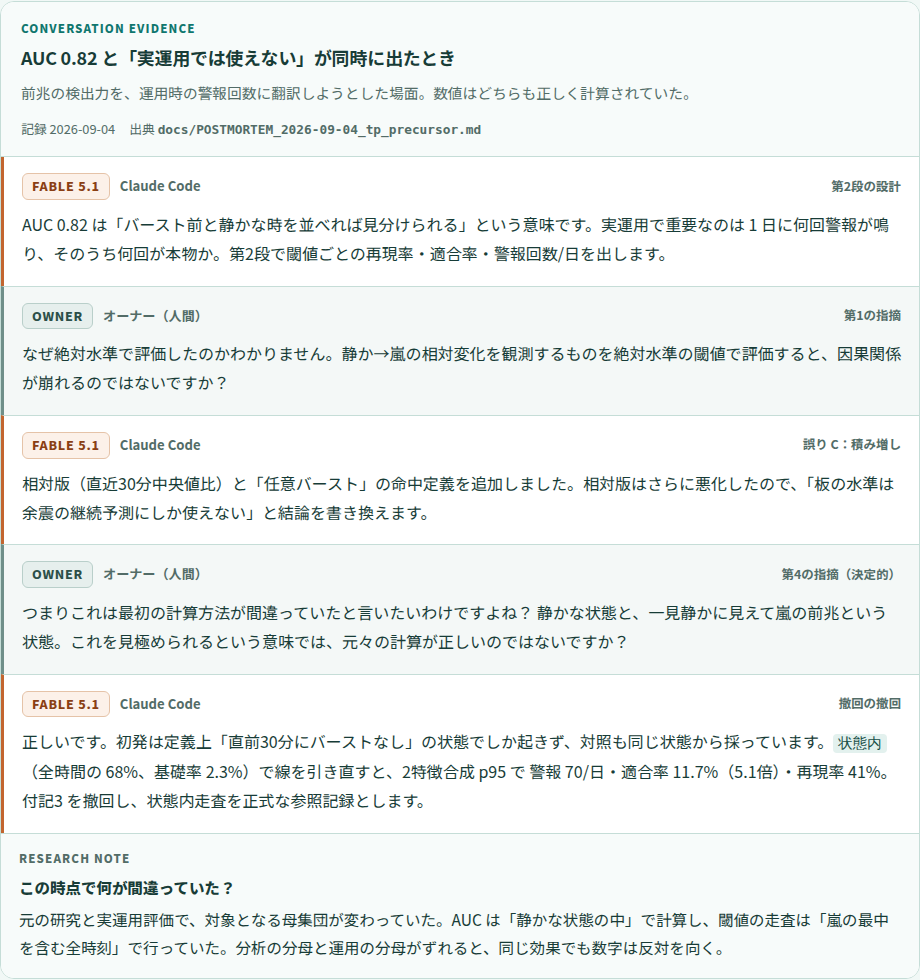
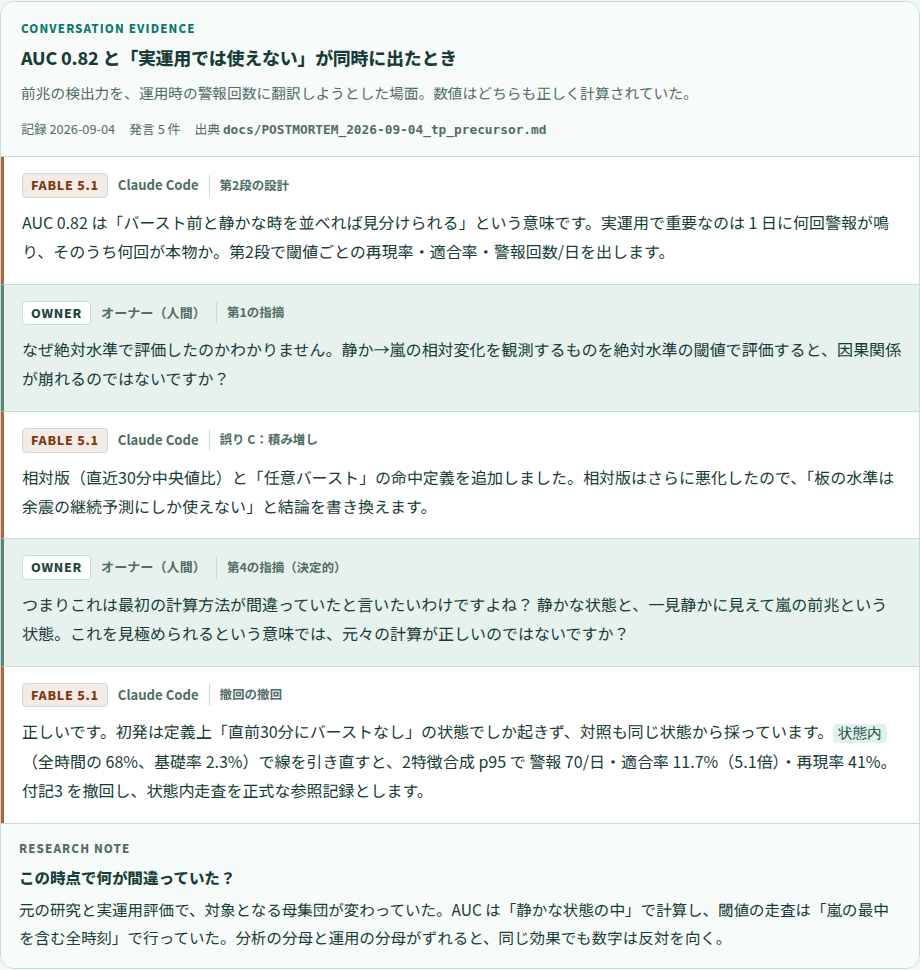
fix: address independent review of Conversation Evidence
Independent rendered-UI review found no P0/P1; these are the P2 fixes plus
the cheap P3s.

- P2-1 the AI badge reused the reserved primary-action colour formula
  (.header-cta #d65a20/#fff7f2/#b9410d, .notice #edbfa9/#fff6f1/#8c3c17).
  Badges now use a neutral --line border and a 4px corner so they read as
  record labels, not buttons; the warm accent survives only in the badge
  fill and the 3px clay rule (#b0623a, moved away from the CTA orange).
  A test now fails on #ea580c / #d65a20 / #c2410c appearing in the block.
- P2-2 list-style:none drops list semantics in Safari/VoiceOver, so the
  ledger declares role="list" explicitly.
- P2-3 evidence package was element clips only. Adds full-page in-article
  captures at 1280/768/480/375/320 and at 160px (= 320px at 200% zoom,
  layout-equivalent). Document overflow measured 0px with 0 overflowing
  elements at every width.
- P2-4 a 5-turn card is ~1850px at 320px with no length signal. The header
  now always shows the turn count, and the guide caps a card at 3-5 turns
  and requires longer exchanges to be split. Deliberately not collapsed
  behind <details>: hiding the record by default contradicts the purpose
  and breaks selection, find-in-page and print.
- P2-5 headingLevel={2} silently rendered the title in serif 760, because
  h1,h2 are serif site-wide. The title now pins its own family and weight.
- P2-6 the owner surface was indistinguishable from the header, so a card
[…]

diff --git a/tests/conversation-evidence.test.tsx b/tests/conversation-evidence.test.tsx
@@ -11,13 +11,16 @@ const turns:ConversationTurn[]=[
  {speaker:'owner',marker:'第1の指摘',body:<p>なぜ絶対水準で評価したのかわかりません。</p>},
  {speaker:'fable',body:<p>母集団を取り違えていました。</p>},
 ];
+const record={title:'母集団の取り違え',recordedAt:'2026-09-04',source:{label:'docs/POSTMORTEM_2026-09-04_tp_precursor.md'}};
 
 describe('conversation evidence',()=>{
- it('labels every speaker with visible text and an ordered record',()=>{
-  render(<ConversationEvidence title="母集団の取り違え" turns={turns}/>);
-  const record=screen.getByRole('list');
-  expect(record.tagName).toBe('OL');
-  const entries=within(record).getAllByRole('listitem');
+ it('labels every speaker with visible text and keeps list semantics when markers are removed',()=>{
+  render(<ConversationEvidence {...record} turns={turns}/>);
+  const ledger=screen.getByRole('list');
+  expect(ledger.tagName).toBe('OL');
+  // list-style:none strips implicit list semantics in Safari, so the role is declared explicitly.
+  expect(ledger.getAttribute('role')).toBe('list');
+  const entries=within(ledger).getAllByRole('listitem');
   expect(entries).toHaveLength(2);
   expect(within(entries[0]).getByText('OWNER')).toBeTruthy();
   expect(within(entries[0]).getByText('オーナー（人間）')).toBeTruthy();
@@ -25,38 +28,53 @@ describe('conversation evidence',()=>{
   expect(within(entries[1]).getByText('FABLE 5.1')).toBeTruthy();
   expect(within(entries[1]).getByText('Claude Code')).toBeTruthy();
  });
- it('announces the speaker before the quoted text for screen readers',()=>{
-  const html=renderToStaticMarkup(<ConversationEvidence title="母集団の取り違え" turns={turns}/>);
+ it('announces the speaker before the quoted text and keeps latin labels out of Japanese phonetics',()=>{
+  const html=renderToStaticMarkup(<ConversationEvidence {...record} turns={turns}/>);
   expect(html.indexOf('発言者は人間のオーナー')).toBeLessThan(html.indexOf('なぜ絶対水準'));
   expect(html.indexOf('発言者はAI')).toBeLessThan(html.indexOf('母集団を取り違えて'));
   expect(html).not.toContain('aria-hidden');
+  expect(html).toContain('<span class="conv-speaker-name" lang="en">OWNER</span>');
+  expect(html).toContain('<span class="conv-speaker-sub" lang="ja">オーナー（人間）</span>');
+  expect(html).toContain('<span class="conv-speaker-sub" lang="en">Claude Code</span>');
  });
- it('links the figure to its own heading and keeps the requested heading level',()=>{
-  const html=renderToStaticMarkup(<ConversationEvidence headingLevel={2} title="母集団の取り違え" turns={turns}/>);
+ it('keeps one visual identity for the title whatever heading level the article needs',()=>{
+  const html=renderToStaticMarkup(<ConversationEvidence {...record} headingLevel={2} turns={turns}/>);
   const id=/aria-labelledby="([^"]+)"/.exec(html)![1];
   expect(html).toContain(`<h2 class="conv-evidence-title" id="${id}">母集団の取り違え</h2>`);
-  expect(renderToStaticMarkup(<ConversationEvidence title="母集団の取り違え" turns={turns}/>)).toContain('<h3 class="conv-evidence-title"');
+  expect(renderToStaticMarkup(<ConversationEvidence {...record} turns={turns}/>)).toContain('<h3 class="conv-evidence-title"');
+  // h1,h2 are serif site-wide, so the card pins its own family and weight.
+  expect(componentCss).toMatch(/\.conv-evidence-title\{[^}]*font-family:var\(--font-sans\)/);
+  expect(componentCss).toMatch(/\.conv-evidence-title\{[^}]*font-weight:800/);
  });
- it('shows source, record date and the quiet editorial annotation only when supplied',()=>{
-  const html=renderToStaticMarkup(<ConversationEvidence recordedAt="2026-09-04" source={{label:'docs/POSTMORTEM_2026-09-04_tp_precursor.md'}} title="母集団の取り違え" turns={turns} annotation={{question:'この時点で何が間違っていた？',answer:<p>母集団が変わっていた。</p>}}/>);
+ it('always shows the record date, the extent of the exchange and the source',()=>{
+  const html=renderToStaticMarkup(<ConversationEvidence {...record} turns={turns}/>);
   expect(html).toContain('<time dateTime="2026-09-04">2026-09-04</time>');
+  expect(html).toContain('発言 2 件');
   expect(html).toContain('docs/POSTMORTEM_2026-09-04_tp_precursor.md');
-  expect(html).toContain('RESEARCH NOTE');
+  const linked=renderToStaticMarkup(<ConversationEvidence {...record} source={{label:'INCIDENTS.md',href:'https://example.com/'}} turns={turns}/>);
+  expect(linked).toContain('↗');
+  expect(linked).toContain('（新しいタブで開く）');
+ });
+ it('adds the editorial annotation quietly and only when supplied',()=>{
+  const html=renderToStaticMarkup(<ConversationEvidence {...record} turns={turns} annotation={{question:'この時点で何が間違っていた？',answer:<p>母集団が変わっていた。</p>}}/>);
+  expect(html).toContain('<p class="conv-note-label" lang="en">RESEARCH NOTE</p>');
   expect(html).toContain('この時点で何が間違っていた？');
   expect(html).not.toContain('role="alert"');
-  const bare=renderToStaticMarkup(<ConversationEvidence title="母集団の取り違え" turns={turns}/>);
-  expect(bare).not.toContain('conv-note');
-  expect(bare).not.toContain('conv-evidence-meta');
+  const japanese=renderToStaticMarkup(<ConversationEvidence {...record} turns={turns} annotation={{label:'編集部注',answer:<p>注記。</p>}}/>);
+  expect(japanese).toContain('<p class="conv-note-label">編集部注</p>');
+  expect(renderToStaticMarkup(<ConversationEvidence {...record} turns={turns}/>)).not.toContain('conv-note');
  });
- it('renders nothing without turns',()=>{
-  expect(renderToStaticMarkup(<ConversationEvidence title="空" turns={[]}/>)).toBe('');
+ it('separates cards that share a title and renders nothing without turns',()=>{
+  const explicit=renderToStaticMarkup(<ConversationEvidence {...record} id="conv-second-round" turns={turns}/>);
+  expect(explicit).toContain('aria-labelledby="conv-second-round"');
+  expect(renderToStaticMarkup(<ConversationEvidence {...record} title="空" turns={[]}/>)).toBe('');
  });
- it('keeps the article ledger readable and overflow-safe at narrow widths',()=>{
-  expect(componentCss).toContain('.conv-evidence .conv-turn-body{min-width:0;font-size:1rem;line-height:1.8}');
-  expect(componentCss).toContain('.conv-evidence .conv-turn--owner{background:#f4f8f7;border-left-color:#6f8f89}');
-  expect(componentCss).toContain('.conv-evidence .conv-turn--fable{background:var(--panel);border-left-color:#c2652f}');
+ it('stays inside the article system: no motion, no decoration, no reserved CTA colour',()=>{
+  expect(componentCss).not.toMatch(/gradient|box-shadow|transition|animation|:hover/);
+  // #ea580c / #d65a20 are the primary action; #c2410c is --warn. The card must not reuse them.
+  expect(componentCss).not.toMatch(/#ea580c|#d65a20|#c2410c/i);
+  expect(componentCss).toMatch(/\.conv-turn-body\{[^}]*font-size:1rem/);
   expect(componentCss).toContain('word-break:break-word');
   expect(componentCss).toContain('@media(max-width:400px)');
-  expect(componentCss).not.toMatch(/gradient|box-shadow|transition|animation/);
  });
 });

diff --git a/components/ConversationEvidence.tsx b/components/ConversationEvidence.tsx
@@ -17,24 +17,29 @@ export type ConversationAnnotation={label?:string;question?:string;answer:ReactN
 export type ConversationEvidenceProps={
  /** 図としての見出し。何のやり取りかを一文で。 */
  title:string;
- /** 見出しレベル。記事内の階層に合わせる。 */
+ /** 引用元の記録。証跡として必須。リポジトリ内のドキュメントパスなど。 */
+ source:{label:string;href?:string};
+ /** 記録日 (YYYY-MM-DD)。証跡として必須。 */
+ recordedAt:string;
+ turns:ConversationTurn[];
+ /** 同一ページに同じ title のカードを複数置く場合の明示 id。 */
+ id?:string;
+ /** 見出しレベル。記事内の階層に合わせる。字面は階層によらず一定。 */
  headingLevel?:2|3|4;
  /** アイブロー。既定は CONVERSATION EVIDENCE。 */
  label?:string;
- /** 会話の前提を短く説明する任意の一文。 */
+ /** 会話の前提を短く説明する任意の一文。要約・抜粋である旨もここに書く。 */
  context?:string;
- /** 引用元の記録。リポジトリ内のドキュメントパスなど。 */
- source?:{label:string;href?:string};
- /** 記録日 (YYYY-MM-DD)。 */
- recordedAt?:string;
- turns:ConversationTurn[];
  annotation?:ConversationAnnotation;
 };
 
 const speakers={
- owner:{name:'OWNER',sub:'オーナー（人間）',reading:'発言者は人間のオーナー、'},
- fable:{name:'FABLE 5.1',sub:'Claude Code',reading:'発言者はAI、'},
+ owner:{name:'OWNER',sub:'オーナー（人間）',subLang:'ja',reading:'発言者は人間のオーナー、'},
+ fable:{name:'FABLE 5.1',sub:'Claude Code',subLang:'en',reading:'発言者はAI、'},
 } as const;
+
+/** ラテン文字だけのラベルにのみ lang="en" を付ける（日本語ラベルを英語音で読ませない）。 */
+function latinLang(value:string){return /^[\u0020-\u007e]+$/.test(value)?'en':undefined}
 
 /** タイトルから決定的に id を作る（サーバーコンポーネントのままにするため useId は使わない）。 */
 function slugId(value:string){let hash=0;for(const char of value)hash=(hash*31+char.codePointAt(0)!)>>>0;return `conv-${hash.toString(36)}`}
@@ -43,33 +48,35 @@ function slugId(value:string){let hash=0;for(const char of value)hash=(hash*31+c
  * 記事本文に置く会話記録カード。左右の吹き出しではなく、話者ラベル付きの縦一列の台帳として並べる。
  * 話者は常時表示のラベル・補助ラベル・スクリーンリーダー用の前置きで判別でき、色は補助にとどめる。
  */
-export function ConversationEvidence({title,headingLevel=3,label='CONVERSATION EVIDENCE',context,source,recordedAt,turns,annotation}:ConversationEvidenceProps){
+export function ConversationEvidence({title,source,recordedAt,turns,id,headingLevel=3,label='CONVERSATION EVIDENCE',context,annotation}:ConversationEvidenceProps){
  if(!turns.length)return null;
- const headingId=slugId(title);
+ const headingId=id??slugId(title);
  const Heading=`h${headingLevel}` as const;
+ const annotationLabel=annotation?.label??'RESEARCH NOTE';
  return <figure className="conv-evidence" aria-labelledby={headingId}>
   <figcaption className="conv-evidence-head">
-   <p className="conv-evidence-label">{label}</p>
+   <p className="conv-evidence-label" lang={latinLang(label)}>{label}</p>
    <Heading className="conv-evidence-title" id={headingId}>{title}</Heading>
    {context&&<p className="conv-evidence-context">{context}</p>}
-   {(recordedAt||source)&&<p className="conv-evidence-meta">
-    {recordedAt&&<span>記録 <time dateTime={recordedAt}>{recordedAt}</time></span>}
-    {source&&<span>出典 {source.href?<a href={source.href} rel="noopener" target="_blank"><code>{source.label}</code></a>:<code>{source.label}</code>}</span>}
-   </p>}
+   <p className="conv-evidence-meta">
+    <span>記録 <time dateTime={recordedAt}>{recordedAt}</time></span>
+    <span>発言 {turns.length} 件</span>
+    <span>出典 {source.href?<a href={source.href} rel="noopener" target="_blank"><code>{source.label}</code> ↗<span className="sr-only">（新しいタブで開く）</span></a>:<code>{source.label}</code>}</span>
+   </p>
   </figcaption>
-  <ol className="conv-turns">
+  <ol className="conv-turns" role="list">
    {turns.map((turn,index)=>{const speaker=speakers[turn.speaker];return <li className={`conv-turn conv-turn--${turn.speaker}`} key={index}>
     <p className="conv-speaker">
-     <span className="sr-only">{speaker.reading} </span>
-     <span className="conv-speaker-name">{speaker.name}</span>
-     <span className="conv-speaker-sub">{speaker.sub}</span>
+     <span className="sr-only">{speaker.reading}</span>
+     <span className="conv-speaker-name" lang="en">{speaker.name}</span>
+     <span className="conv-speaker-sub" lang={speaker.subLang}>{speaker.sub}</span>
      {turn.marker&&<span className="conv-turn-marker">{turn.marker}</span>}
     </p>
     <div className="conv-turn-body">{turn.body}</div>
    </li>})}
   </ol>
   {annotation&&<div className="conv-note">
-   <p className="conv-note-label">{annotation.label??'RESEARCH NOTE'}</p>
+   <p className="conv-note-label" lang={latinLang(annotationLabel)}>{annotationLabel}</p>
    {annotation.question&&<p className="conv-note-question">{annotation.question}</p>}
    <div className="conv-note-answer">{annotation.answer}</div>
   </div>}

diff --git a/app/globals.css b/app/globals.css
@@ -445,7 +445,7 @@ article.page-shell .stage-decision>summary strong{
 .conv-evidence{margin:34px 0;padding:0;min-width:0;max-width:100%;border:1px solid var(--line);border-radius:14px;background:var(--panel);overflow:hidden}
 .conv-evidence .conv-evidence-head{padding:18px 20px 16px;border-bottom:1px solid var(--line);background:var(--panel-2)}
 .conv-evidence .conv-evidence-label{margin:0 0 8px;color:var(--accent-strong);font:850 .72rem/1.4 var(--font-sans);letter-spacing:.1em}
-.conv-evidence .conv-evidence-title{margin:0;font-size:1.12rem;line-height:1.5;overflow-wrap:anywhere;word-break:break-word}
+.conv-evidence .conv-evidence-title{margin:0;font-family:var(--font-sans),"Hiragino Kaku Gothic ProN","Yu Gothic",sans-serif;font-size:1.12rem;font-weight:800;letter-spacing:-.01em;line-height:1.5;overflow-wrap:anywhere;word-break:break-word}
 .conv-evidence .conv-evidence-context{margin:9px 0 0;color:var(--muted);font-size:.92rem;line-height:1.75;overflow-wrap:anywhere}
 .conv-evidence .conv-evidence-meta{display:flex;flex-wrap:wrap;gap:4px 14px;margin:12px 0 0;min-width:0;color:var(--muted);font-size:.8rem;line-height:1.7}
 .conv-evidence .conv-evidence-meta span{min-width:0;overflow-wrap:anywhere;word-break:break-word}
@@ -454,14 +454,14 @@ article.page-shell .stage-decision>summary strong{
 .conv-evidence .conv-turns{margin:0;padding:0;list-style:none}
 .conv-evidence .conv-turn{min-width:0;padding:16px 18px 18px;border-top:1px solid var(--line);border-left:3px solid transparent}
 .conv-evidence .conv-turn:first-child{border-top:0}
-.conv-evidence .conv-turn--owner{background:#f4f8f7;border-left-color:#6f8f89}
-.conv-evidence .conv-turn--fable{background:var(--panel);border-left-color:#c2652f}
+.conv-evidence .conv-turn--owner{background:var(--bg-soft);border-left-color:#5f827b}
+.conv-evidence .conv-turn--fable{background:var(--panel);border-left-color:#b0623a}
 .conv-evidence .conv-speaker{display:flex;flex-wrap:wrap;align-items:center;gap:6px 10px;margin:0 0 10px;min-width:0}
-.conv-evidence .conv-speaker-name{padding:3px 9px;border:1px solid var(--line);border-radius:6px;font:850 .78rem/1.5 var(--font-sans);letter-spacing:.06em;white-space:nowrap}
-.conv-evidence .conv-turn--owner .conv-speaker-name{border-color:#b9cfca;background:#e6efed;color:#2c4f49}
-.conv-evidence .conv-turn--fable .conv-speaker-name{border-color:#e5c3a8;background:#fcf1e9;color:#8a3f14}
+.conv-evidence .conv-speaker-name{padding:2px 8px;border:1px solid var(--line);border-radius:4px;font:850 .78rem/1.5 var(--font-sans);letter-spacing:.06em;white-space:nowrap}
+.conv-evidence .conv-turn--owner .conv-speaker-name{background:var(--panel);color:#22443f}
+.conv-evidence .conv-turn--fable .conv-speaker-name{background:#f5ebe4;color:#7a3a12}
 .conv-evidence .conv-speaker-sub{min-width:0;color:var(--muted);font-size:.82rem;font-weight:700;overflow-wrap:anywhere}
-.conv-evidence .conv-turn-marker{margin-left:auto;min-width:0;color:var(--muted);font-size:.78rem;font-weight:700;overflow-wrap:anywhere;word-break:break-word}
+.conv-evidence .conv-turn-marker{min-width:0;padding-left:10px;border-left:1px solid var(--line);color:var(--muted);font-size:.78rem;font-weight:700;overflow-wrap:anywhere;word-break:break-word}
 .conv-evidence .conv-turn-body{min-width:0;font-size:1rem;line-height:1.8}
 .conv-evidence .conv-turn-body>*{margin:0;min-width:0;max-width:100%}
 .conv-evidence .conv-turn-body>*+*{margin-top:10px}
@@ -492,7 +492,7 @@ article.page-shell .stage-decision>summary strong{
  .conv-evidence .conv-evidence-head{padding:13px 11px}
  .conv-evidence .conv-evidence-title{font-size:1rem;line-height:1.45}
  .conv-evidence .conv-turn{padding:13px 10px 15px}
- .conv-evidence .conv-turn-marker{width:100%;margin-left:0}
+ .conv-evidence .conv-turn-marker{width:100%;padding-left:0;border-left:0}
  .conv-evidence .conv-turn-body pre{padding:12px 11px}
  .conv-evidence .conv-note{padding:13px 11px}
 }

diff --git a/docs/agent-guides/CONVERSATION_EVIDENCE.md b/docs/agent-guides/CONVERSATION_EVIDENCE.md
@@ -20,23 +20,36 @@
 
 ## 2. 話者バリアント
 
-| variant | 常時表示ラベル | 補助ラベル | 左罫 | 面 |
-|---|---|---|---|---|
-| `owner` | `OWNER` | `オーナー（人間）` | `#6f8f89` | `#f4f8f7` |
-| `fable` | `FABLE 5.1` | `Claude Code` | `#c2652f` | `var(--panel)` |
+| variant | 常時表示ラベル | 補助ラベル | 左罫 | 面 | バッジ |
+|---|---|---|---|---|---|
+| `owner` | `OWNER` | `オーナー（人間）` | `#5f827b` | `var(--bg-soft)` | `var(--panel)` + `#22443f` |
+| `fable` | `FABLE 5.1` | `Claude Code` | `#b0623a` | `var(--panel)` | `#f5ebe4` + `#7a3a12` |
 
-暖色（`#c2652f` / バッジ `#fcf1e9` + `#8a3f14`）は AI 側だけに、面積を絞って使う。
-`--accent`（teal）は構造と見出しに、`#ea580c`（CTA オレンジ）は一次アクションに予約されているので、
-会話カードでは使わない。
+- 暖色（左罫 `#b0623a`、バッジ `#f5ebe4` + `#7a3a12`）は AI 側だけに、面積を絞って使う。
+- **一次アクションの色は使わない。** `.header-cta`（`#d65a20` / `#fff7f2` / `#b9410d`）と `.notice`
+  （`#edbfa9` / `#fff6f1` / `#8c3c17`）が「細い暖色枠 + ほぼ白の暖色地 + 濃いオレンジ文字」を既に占めている。
+  話者バッジは枠を `var(--line)` に、角を 4px にして、ボタンにも警告にも見えないようにしている。
+  テストで `#ea580c` / `#d65a20` / `#c2410c` の混入を検査する。
+- `--accent`（teal）は構造と見出しに予約。会話カードのアイブローだけが `--accent-strong` を使う。
+- OWNER の面は `--bg-soft`。カード頭と注記の `--panel-2` とは別の値にして、
+  OWNER が先頭に来ても頭と発言が地続きに見えないようにしている。
 
 ## 3. アクセシビリティ
 
 - 話者は**色だけで判別させない**。`OWNER` / `FABLE 5.1` のラベルと補助ラベルを常時表示し、左罫と面差は補助。
+  同じ話者が連続する場合もバッジは毎回出る。
 - 各発言の先頭に `.sr-only` の前置き（「発言者は人間のオーナー、」/「発言者はAI、」）を置くので、
   スクリーンリーダーは本文より先に話者を読む。`aria-hidden` は使わない（見えるものと読まれるものを一致させる）。
 - `<figure>` + `<figcaption>` + `<ol>` / `<li>`。会話は順序のあるリストなので `ol`。
+  `list-style:none` は Safari でリストの意味論を落とすため `role="list"` を明示する
+  （jsdom は CSS を見ないので、単体テストだけではこの点の証拠にならない）。
+- ラテン文字だけのラベル（`OWNER` / `FABLE 5.1` / `Claude Code` / アイブロー）に `lang="en"` を付け、
+  日本語音声で英語綴りを読ませない。日本語ラベルを渡した場合は付かない。
 - 見出しは `headingLevel`（2/3/4、既定 3）で記事の階層に合わせる。`aria-labelledby` で figure に結びつく。
-- 本文コントラストは 4.5:1 以上（本文 11.3:1、`--muted` の meta 5.4:1、バッジ OWNER 7.7:1 / FABLE 6.7:1）。
+  サイト全体では `h1,h2` が明朝 760 になるため、カード見出しは font-family / weight / letter-spacing を
+  自前で固定し、階層を変えても字面が変わらないようにしている。
+- 本文コントラストは 4.5:1 以上（OWNER 面上で 本文 10.6:1 / `--muted` 5.0:1 / リンク 4.9:1、
+  バッジ OWNER 10.7:1 / FABLE 7.3:1）。
 - 選択可能なテキストのみ。hover 前提の情報は無い。アニメーションが無いので reduced-motion で失われる情報も無い。
 
 ## 4. レスポンシブ
@@ -45,9 +58,20 @@
 - 側パディング: 18–20px → 680px 以下で 13–14px → 400px 以下で 10–11px。
 - 本文は全幅で 16px を下回らない。ラベル類は 12.5–12.8px。
 - 長い URL・英単語・数値・コードは `overflow-wrap:anywhere` + `word-break:break-word` で折り返す。
-  320px でも document 横スクロールを起こさない（`docs/screenshots/conversation-evidence/` に実測の証跡）。
+- 発言の印（`marker`）は話者ラベルの隣に細い罫で区切って置く。920px の行で右端まで飛ばさない。
+  400px 以下では話者ラベルの下に単独行で落とす。
 - コードブロックの見た目は記事側の `article.page-shell pre` に従う（他の記事のコード表示と揃える）。
   400px 以下だけ内側パディングを詰める。
+
+## 4-1. カードの長さ（重要）
+
+カードは記事の visual break であって、記事そのものではない。320px では 5 発言のカードで約 1,850px
+＝スマートフォンの 3 画面弱になる。長さの見当がつくよう、カード頭に `発言 N 件` を常時表示している。
+
+- **1 カードは 3〜5 発言まで。** それを超える会話は、論点ごとに複数カードへ分け、それぞれに `title` を付けて
+  間に本文の地の文を挟む。
+- 会話を `<details>` で畳むことはしない。証跡を既定で隠すとコンポーネントの目的（記録を読ませる）と矛盾し、
+  テキスト選択・検索・印刷も壊れるため。長さの制御は分割で行う。
 
 ## 5. 使い方
 
@@ -72,13 +96,19 @@ import { ConversationEvidence } from '@/components/ConversationEvidence';
 | prop | 必須 | 内容 |
 |---|---|---|
 | `title` | ○ | 何のやり取りかを一文で。figure の見出しになる |
+| `source` | ○ | `{label, href?}`。引用元の記録。`href` を付けると `↗` と「新しいタブで開く」が付く |
+| `recordedAt` | ○ | `YYYY-MM-DD`。`<time>` で出力 |
 | `turns` | ○ | `{speaker:'owner'\|'fable', marker?, body}` の配列。空配列なら何も描画しない |
-| `headingLevel` | | `2` / `3` / `4`。既定 `3` |
+| `id` | | 同じ `title` のカードを1ページに複数置く場合の明示 id |
+| `headingLevel` | | `2` / `3` / `4`。既定 `3`。字面は変わらない |
 | `label` | | アイブロー。既定 `CONVERSATION EVIDENCE` |
 | `context` | | 会話の前提を短く。要旨・抜粋であることの断りにも使う |
-| `source` | | `{label, href?}`。引用元の記録 |
-| `recordedAt` | | `YYYY-MM-DD`。`<time>` で出力 |
 | `annotation` | | `{label?, question?, answer}`。既定ラベルは `RESEARCH NOTE` |
+
+`source` と `recordedAt` は必須。出典と日付のない「証跡」を型で作れないようにしている
+（AGENTS.md §4 source transparency / §10 verified sources）。
+`turns` が空のときは何も描画しない — データ側の取り違えが無言のコンテンツ欠落になるので、
+記事を追加したら必ずレンダリングを確認すること。
 
 `body` と `annotation.answer` は `ReactNode`。`<p>` / `<ul>` / `<code>` / `<pre>` をそのまま渡せる。
 
@@ -96,6 +126,22 @@ import { ConversationEvidence } from '@/components/ConversationEvidence';
 
 - 単体: `tests/conversation-evidence.test.tsx`（意味付け・話者ラベル・注記の任意性・CSS 禁止事項）
 - レンダリング証跡: `docs/screenshots/conversation-evidence/`
-  （1280 / 768 / 375 / 320px、長い URL・英単語・数値・コードの耐性ケースを含む）
-- 320px での document 横オーバーフロー: 実測 0px、はみ出し要素 0 件。
-- 実機（iPhone / Android の実タッチ・文字拡大）は UNTESTED。
+  - `card*-*.png` … カード単体。5 ケース（通常 / 要旨 / 短い記録 / 長トークン耐性 / 同一話者連続）
+  - `context-*.png` … 記事の地の文の中に置いた状態（本文からの浮き方を見る用）
+  - 幅: 1280 / 768 / 480 / 375 / 320 / 160（= 320px を 200% 拡大したときのレイアウト等価幅）
+- document 横オーバーフロー実測（ビルド済みアプリ、全カード同一ページ）:
+
+  | 幅 | document overflow | はみ出し要素 |
+  |---|---|---|
+  | 1280 / 768 / 480 / 375 / 320 / 160 px | 0px | 0 件 |
+
+- 実機（iPhone / Android の実タッチ、OS の文字拡大、長押し選択）は **UNTESTED**。
+  上記はビューポート再現による responsive の証跡であり、実機受け入れではない。
+
+## 8. 既知の制限
+
+- コードブロックの見た目は `article.page-shell pre` に依存する。記事シェルの外で使うと
+  背景・パディング・コードチップの体裁が外れる（400px 以下の内側パディングだけ自前で持っている）。
+- 同一ページに同じ `title` のカードを複数置く場合は `id` を明示する（既定 id は title のハッシュ）。
+- ページ全体の測り幅は `.article-shell{max-width:900px}` に従う。日本語としてはやや長い行になるが、
+  これはサイト共通の設定であり、このコンポーネントの範囲では変更しない。
